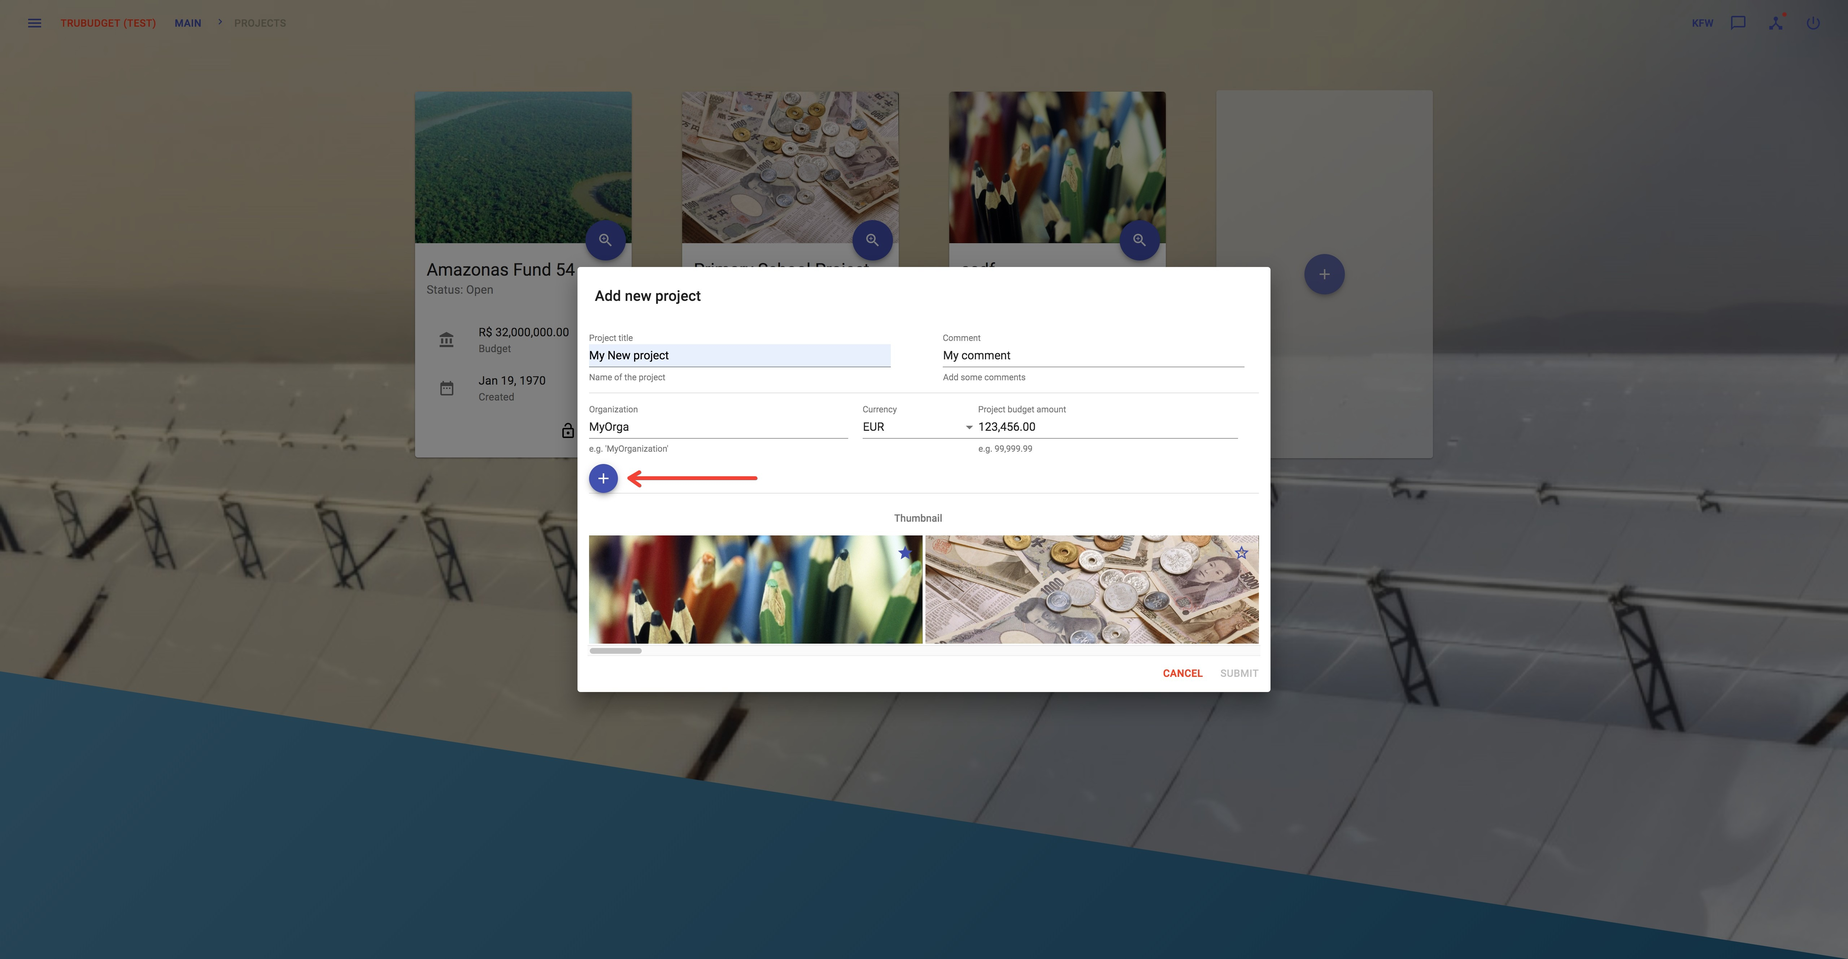
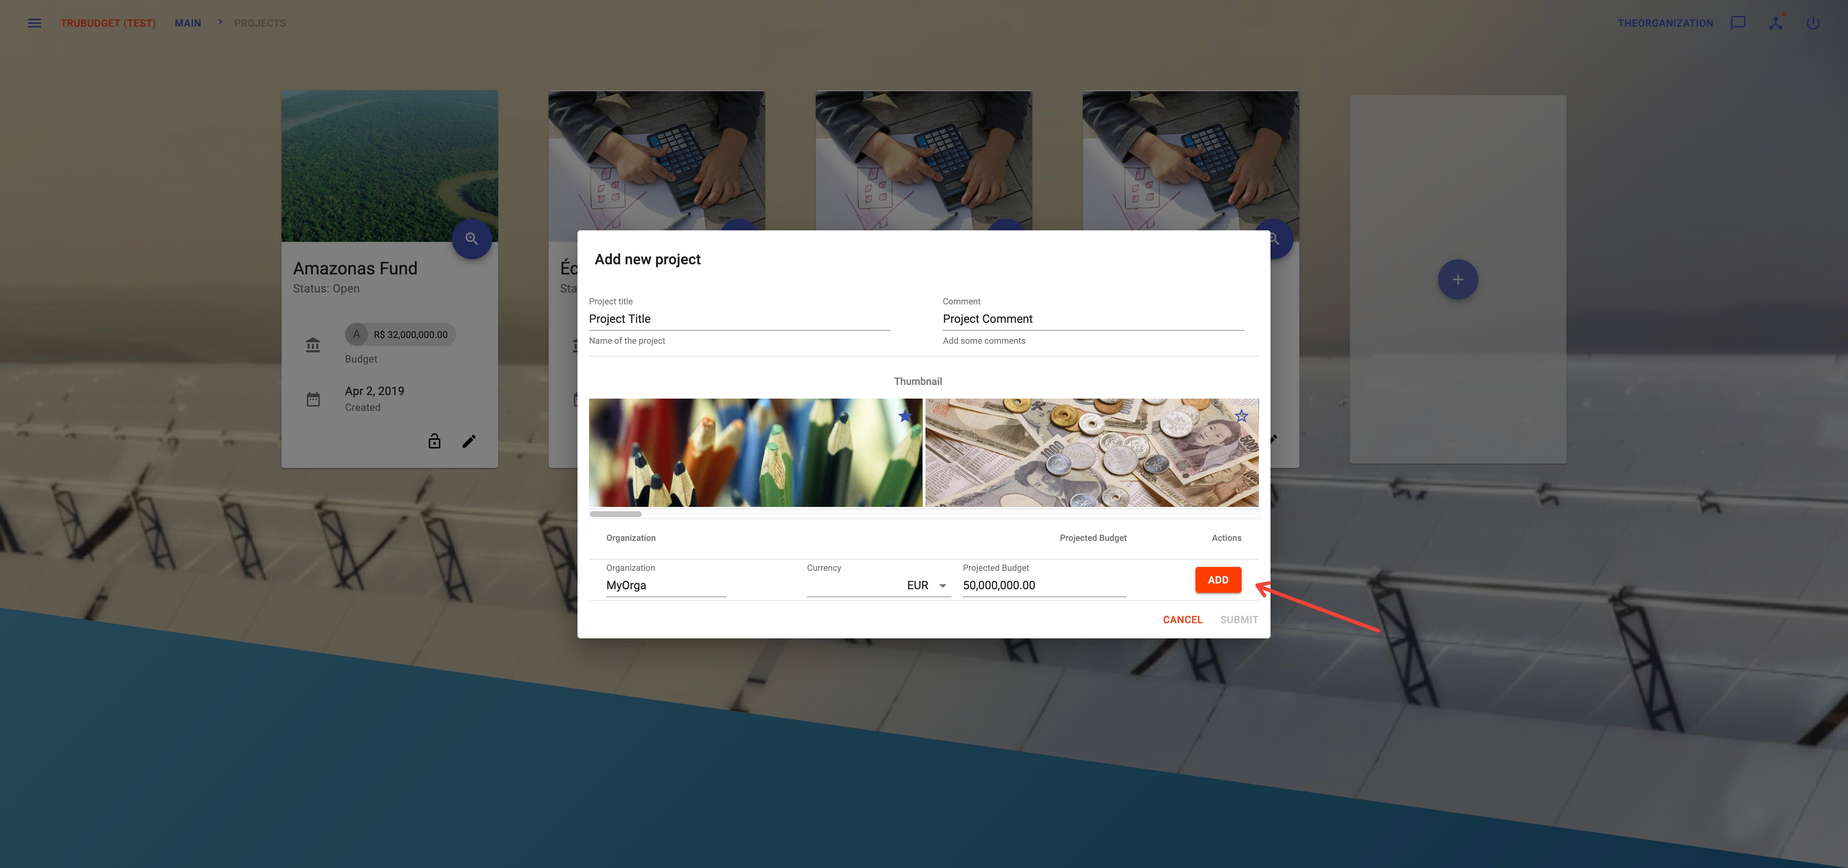
Refine documentation
Squashed commit of the following:

commit f4831b055248689ef3bbe16d7b3a7ef49706e4d9
Author: Kevin Bader <kevinbader@users.noreply.github.com>
Date:   Wed Apr 3 15:53:01 2019 +0200

    Update readme

commit ade52223a8595ef6893f67859bca468a0f45fc4c
Author: Kevin Bader <kevinbader@users.noreply.github.com>
Date:   Wed Apr 3 14:22:44 2019 +0200

    Increase Docker version to support managed volumes

commit 5918232d27f7a514e2d78948dd0d0004ccd59f1b
Author: Kevin Bader <kevinbader@users.noreply.github.com>
Date:   Wed Apr 3 14:19:16 2019 +0200

    Remove coverage badge

commit 7e39d3d2dc974c2ca93a340a35d5069ca6f30b66
Author: Mathias Höld <mathias.hoeld@accenture.com>
Date:   Wed Apr 3 12:03:21 2019 +0200

    Update screenshots for user guide

commit 028d1f4e0f93486d4b37780a620369830c344da6
Merge: 96f255db 96cdbbff
Author: Mathias Höld <mathias.hoeld@accenture.com>
Date:   Wed Apr 3 11:29:06 2019 +0200

    Fix link

commit 96f255db7d1e33076bfb3b7ee3261c4613eee51d
Author: Mathias Höld <mathias.hoeld@accenture.com>
Date:   Wed Apr 3 11:11:36 2019 +0200

    Fix links in user guides

commit 96cdbbff93a2f9607bfbd0536b91f4082442ef7b
Author: Mathias Höld <mathias.hoeld@accenture.com>
Date:   Wed Apr 3 11:11:36 2019 +0200

    Fix links in user guides

commit 53a30144468a1a1b6b62757f4ca4892d32623301
Author: Stezido <stefan.ziffer@accenture.com>
Date:   Wed Apr 3 10:59:25 2019 +0200

    Update 0007-execution-architecture-overview.md

commit e40846601a493d2873bbaf7759da10259c048f07
[…]

diff --git a/README.md b/README.md
@@ -2,14 +2,18 @@
 
 [![build status](https://travis-ci.com/openkfw/TruBudget.svg?branch=master)](https://travis-ci.com/openkfw/TruBudget)
 [![gitter chat](https://img.shields.io/badge/chat-on%20gitter-brightgreen.svg)](https://gitter.im/Tru-Community/community)
-[![Coverage Status](https://coveralls.io/repos/github/openkfw/TruBudget/badge.svg)](https://coveralls.io/github/openkfw/TruBudget)
 
 # Table of Contents <!-- omit in TOC -->
 
 - [Introduction](#introduction)
 - [Getting Started](#getting-started)
   - [Prerequisites](#prerequisites)
-  - [Installing](#installing)
+  - [Starting the first TruBudget node](#starting-the-first-trubudget-node)
+  - [Working with TruBudget](#working-with-trubudget)
+  - [Adding new nodes to the network](#adding-new-nodes-to-the-network)
+  - [Granting access for new nodes](#granting-access-for-new-nodes)
+  - [Using TruBudget programatically through its API](#using-trubudget-programatically-through-its-api)
+  - [Hints and Pitfalls](#hints-and-pitfalls)
 - [Build and Develop from Local Sources](#build-and-develop-from-local-sources)
 - [More Information](#more-information)
 
@@ -19,76 +23,154 @@ TruBudget - a trusted public expenditure tool. A collaborative workflow tool and
 
 # Getting Started
 
-These instructions will get you a copy of the project up and running on your local machine.
+These instructions will help you deploy your own TruBudget platform having two nodes of separate organizations connected to the same network.
 
->_Caution_: This guide is tested against Linux and OS X operating systems. For Windows, we recommend using the Git Bash (or something similar) to perform the commands listed below, but there could still be issues while performing some of the commands.
+> _Caution_: This guide is tested against Linux and OS X operating systems. For Windows, we recommend using the Git Bash (or something similar) to perform the commands listed below, but there could still be issues while performing some of the commands.
 
 ## Prerequisites
 
-- [Docker](https://www.docker.com/) (Version 17.03.0+)
+- [Docker](https://www.docker.com/) (version 17.06 or higher recommended)
 - [Docker-Compose](https://docs.docker.com/compose/)
 
-## Installing
+> In order to run the full tutorial you should run the TruBudget nodes in separate VM's
+
+## Starting the first TruBudget node
 
 The recommended option to get started with TruBudget is to use the latest stable docker images via docker-compose.
 For more detailed information about the installation and the environment variables or alternative ways to setup TruBudget check out the [Installation Guide](./doc/wiki/Installation-Guide/Installation-Guide.md).
 
-Setting required environment variables via `.env` file. If you want to use the standard setup, simply copy the `.env_example` file:
+The required environment variables are set in the `.env` file. If you want to use the standard setup, simply copy the `.env_example` file, otherwise explore the posible configuration options in it:
 
 ```bash
 cd path/to/trubudget
 cp .env_example .env
 ```
 
->Tip: If you want to checkout a certain version of TruBudget change the `TAG` environment variable. By default it is set to `TAG=master`.
+> Warning: Before you start with the standard configuration, please make sure that the ports `80`, `8080`, `8081`, `7447`, `7448` are not occupied by other processes. If yes, you can change the ports used in TruBudget inside the `.env` file.
 
-Before you start with the standard configuration, please make sure that the port `80` (used by the frontend) is free.
+To run a clean (empty) version of TruBudget, run the following script:
 
-To run TruBudget, run the following script:
-
-```bash
-sh scripts/master/start-and-provision-master-node.sh
-```
-
-This will start a prod and test instance of TruBudget (blockchain, api, frontend) with a standard set of projects and users (i.e. 'provisioned blockchain').
-> Caution: The process of provisioning may take several minutes (depending on your CPU) and can slow down your computer during the execution of the script.
-
-If you want to start with an empty blockchain (i.e. without any users but `root` and without any projects), you can run:
 ```bash
 sh scripts/master/start-master-node.sh
 ```
 
-Use `docker ps` to check on the running containers:
+> In case you want to start with a set of example data, you can also start TruBudget with the following script `sh scripts/master/start-and-provision-master-node.sh`. The process of provisioning may take several minutes (depending on your CPU) and can slow down your computer during the execution of the script. After provisioning you have acces to a set of users (e.g. `mstein` which share the password `test`)
+
+This command will bootstrap a prod and test instance of TruBudget (blockchain, api, frontend) for you. Use `docker ps` to check on the running containers. You should see the following output (you can find more details about the runtime architecture in the [Infrastructure-Guide](./doc/wiki/Infrastructure-Guide/Infrastructure-Guide.md)):
 
 ```bash
 ➜ docker ps
-CONTAINER ID        IMAGE                           COMMAND                  CREATED             STATUS              PORTS                NAMES
-41c3453e505c        trubudget/frontend:master       "/bin/sh -c '/bin/as…"   5 minutes ago       Up 5 minutes        0.0.0.0:80->80/tcp   trubudget_frontend_1
-5dacb07a93a3        trubudget/provisioning:master   "npm start"              5 minutes ago       Up 5 minutes                             trubudget_provision-test_1
-296e0d16435c        trubudget/provisioning:master   "npm start"              5 minutes ago       Up 5 minutes                             trubudget_provision-prod_1
-c6426a0ee5f5        trubudget/api:master            "/bin/sh -c 'npm sta…"   5 minutes ago       Up 5 minutes                             trubudget_testapi_1
-27d71e0678d0        trubudget/api:master            "/bin/sh -c 'npm sta…"   5 minutes ago       Up 5 minutes                             trubudget_api_1
-760e9736c0dc        trubudget/blockchain:master     "npm start"              5 minutes ago       Up 5 minutes        7447/tcp, 8000/tcp   trubudget_master_1
-a8b3442490b5        trubudget/blockchain:master     "npm start"              5 minutes ago       Up 5 minutes        7447/tcp, 8000/tcp   trubudget_testmaster_1
+CONTAINER ID        IMAGE                  COMMAND                  CREATED             STATUS              PORTS                              NAMES
+6e70c64c84c9        trubudget_frontend     "/bin/sh -c '/bin/as…"   30 minutes ago      Up 30 minutes       0.0.0.0:80->80/tcp                 trubudget_frontend_1
+b6e096c65ba8        trubudget_testapi      "/bin/sh -c 'npm sta…"   30 minutes ago      Up 30 minutes       0.0.0.0:8081->8080/tcp             trubudget_testapi_1
+8d70d9f311a9        trubudget_api          "/bin/sh -c 'npm sta…"   30 minutes ago      Up 30 minutes       0.0.0.0:8080->8080/tcp             trubudget_api_1
+49254c50b649        trubudget_master       "npm start"              30 minutes ago      Up 30 minutes       0.0.0.0:7447->7447/tcp, 8000/tcp   trubudget_master_1
+0b458b72d14f        trubudget_testmaster   "npm start"              30 minutes ago      Up 30 minutes       8000/tcp, 0.0.0.0:7448->7447/tcp   trubudget_testmaster_1
 ```
 
 Once the application is started (and the provisioning is done), you can visit the application at:
+
 ```
 http://localhost:80
 ```
 
-To log in, use the following standard login (as defined in the `.env` file)
+If you bootstraped an empty TruBudget instance, you need to provision some users first. In this case you have to log-in with the _root_, whose password is defined in the `.env` file with the environment variable `ROOT_SECRET`. The default value from the `.env_example` is: 
+
 ```
 User: root
 Passwort: root-secret
 ```
-With this user you can see the provisioned projects and users, if you started with a provisioned blockchain.
 
-The blockchain data is persisted on your hard drive. The standard location on Linux and OS X for this is:
+> If the environment variable for ROOT_SECRET is not set, it is auto-generated by the API as a random string. The value is then printed to the API log.
+
+The next step is to setup your first user.
+
+## Working with TruBudget
+
+Your first step is creating a new user. Follow the instruction on [User-Guide: Setup a User](./doc/wiki/User-Guide/Users-Groups/User.md). Don't forget to grant permissions to your users.
+
+Now you can create you first project, subproject and workflow items following the [User-Guide: Ressources](./doc/wiki/User-Guide#projects).
+
+TruBudget is a distributed platform built on Blockchain, so let's add a new node to our network!
+
+## Adding new nodes to the network
+
+Let's define _organization_ first. An organization is a stakeholder in the funding process (e.g. Minsistry of X). TruBudget is designed to connect multiple organizations together. Each organization creates their own users. From a network perspective, an organization can run one or more nodes. Each organization has exactly one wallet that can be used to vote when granting or revoking permissions to wallet addresses, which is key to preventing a 51%-attack against the network. A consequence of this mechanism is that a user may only sign-in on nodes that belong to his/her organization (find more on this at [Network: Nodes](./doc/wiki/User-Guide/Network/Nodes.md)). If you want to read more about the concept of organizations, have a look at the [Multi Node Setup ADR](./doc/adr/0010-multi-node-setup.md).
+
+Start up a new VM, again check out the project and copy the `.env` file, as you did in the first step. Let's take a deeper look at it:
+
+| Variable                  | Description                                                 |
+| ------------------------- | ----------------------------------------------------------- |
+| ORGANIZATION              | The name of your organization                               |
+| ORGANIZATION_VAULT_SECRET | The secret for your organization                            |
+| P2P\_<TEST / PROD>\_HOST  | The address of the remote node you want to connect to       |
+| P2P\_<TEST / PROD>\_PORT  | The port of the remote node you want to connect to          |
+| API\_<TEST / PROD>\_HOST  | The address of the remote master api you want to connect to |
+| API\_<TEST / PROD>\_PORT  | The port of the remote master api you want to connect to    |
+
+You can only connect to an existing organization if you know its `ORGANIZATION_VAULT_SECRET`. If you create a new organization, simply set the `ORGANIZATION` to the name of your new organization and set a `ORGANIZATION_VAULT_SECRET` which is kept secret inside your organization
+
+Well, let's create a new organization (`CoolNewOrga`) which wants to connect to our node (the one we created in the first step):
+
 ```
-/tmp/bcMasterVolume
+...
+ORGANIZATION=CoolNewOrga
+ORGANIZATION_VAULT_SECRET=moresecretthananythingelse
+...
+P2P_TEST_HOST=51.51.51.51
+P2P_TEST_PORT=7448
+API_TEST_HOST=51.51.51.51
+API_TEST_PORT=8081
+P2P_PROD_HOST=51.51.51.51
+P2P_PROD_PORT=7447
+API_PROD_HOST=51.51.51.51
+API_PROD_PORT=8080
+...
 ```
 
+As you can see, we have set the `ORGANIZATION` and `ORGANIZATION_VAULT_SECRET` variables and additionaly set the IP-Address of the node we created in the first step (e.g. in our case `51.51.51.51`)
+
+Now start
+
+```bash
+sh scripts/master/start-slave-node.sh
+```
+
+and you will connect yourself to the network and ask for access permissions. If you look at the console output of the new node, you will see an error. This error comes from the node, trying to access the network but being rejected.
+
+To proceed from here let's jump to the next step and grant the newly created node permission to access the network.
+
+## Granting access for new nodes
+
+TruBudget creates a private network. This means new nodes have to ask already registered nodes for permissions to join. When granting access we are using a democratic aproach to do so, by requiring at least half of the current network to approve a new node. In our case, we only have one node (the one you created in the first step), which has currently 100% of the voting power.
+
+To grant permissions, simply log in on the first TruBudget node (the one you created in the first step) and follow the instructions in the [Node-Guide](./doc/wiki/User-Guide/Network/Nodes.md).
+
+In the node section you should see that you need to approve a new node and organization. Approve it the requesting node (the one from the third step) will start to automatically connect and synchronize with the network (check the logs of the node created in the third step).
+
+> Warning: Keep in mind, we are always deploying two separate networks (`prod` and `test`). This means you need to approve the new node in each network separately. You can switch the network through a dropdown on the login screen.
+
+## Using TruBudget programatically through its API
+
+TruBudget comes with a frontend, but we greatly encourage to create own frontends or attach your existing systems to TruBudget. Therefore everything you can do in TruBudget can be done through a well documented HTTP/JSON interface. You can access and test-drive the API using the swagger documentation which is exposed by the TruBudget API under the route `/api/documentation/index.html`. Since we have already two nodes running, lets access the API documentation of the node we deployed in the first step.
+
+```
+For the prod network:
+http://localhost:8080/api/documentation/index.html
+
+For the test network:
+http://localhost:8081/api/documentation/index.html
+```
+
+## Hints and Pitfalls
+
+Obviously this is just a short introduction on how to start and use the platform but you can get quite far with it. Nevertheless, there are a few points which you need to consider if you want to go into more details or use TruBudget in production.
+
+- Secrets: You will be using different secrets and it is essential to keep this in a secure place. The `ORGANIZATION_VAULT_SECRET` restricts who can join an organization and make transaction on their behalf. The `ROOT_SECRET` grants access for a super admin (the _root_ user) on the API and should only be used to create the first admin user. The `RPC_SECRET` restricts access to the Multichain API and should be different for every node.
+- You can't delete: You are on a blockchain! All your actions and changes will be visible (this is why we use a blockchain ;)). Therefore we always provide a test-network to play around (you can select the network on the login screen). If you are in a country which falls under GDPR or other personal data protection laws you should never store personal data in TrudBudget.
+- Privacy: _Data at rest_ and _Data in transit_ is _not_ encrypted. If this is important for you, your infrastructure has to provide adequate measures to ensure this level of privacy (e.g. disk encryption, VPN). Obviously passwords are encrypted and _not_ stored in clear text.
+- Access-Control: Be aware that since we are in blockchain, data will be replicated across all nodes and is potentially readable by all nodes (_except_ passwords). A much higher level of access control is enforced through the TruBudget API which will restrict the amount of data a user can see or update. If you want to grant access to a party you are not fully trusting, _never_ grant them direct access to the Multichain node (through RPC) instead expose the TruBudget API and created a user with the individual permissions for them.
+- Persistence: By default, the blockchain will store its local date inside the /tmp folder of your host system. Depending on your OS configuration this could be a volatile space (e.g. could be deleted on boot up). You should change this path the location of your choice. To do so, simply edit the docker-compose files inside the `./docker-compose` [folder](./docker-compose). _we plan to change the default location in future updates_
 
 # Build and Develop from Local Sources
 

diff --git a/doc/wiki/User-Guide/Projects/Subproject.md b/doc/wiki/User-Guide/Projects/Subproject.md
@@ -28,7 +28,7 @@ View all subprojects where the current user has view-permissions on.
 
 **Notes:**
 
-- To view the subproject's details take a look at the [View subproject details section](<./#View subproject details>) below.
+- To view the subproject's details take a look at the [View subproject details section](#view-subproject-details) below.
 
 **Instructions:**
 
@@ -86,9 +86,8 @@ Create a new subproject defining title, comment, currency and budget.
    - "Comment": A little description or comment refering to the subproject
    - "Organization": Organization that the budget belongs to
    - "Currency": The currency of the organization's budget
-   - "Amount": The amount of the organization's budget
 
-6. Add the budget of the organization by clicking the "+" symbol
+6. Add the projected budget of the organization by clicking the "+" symbol
    ![create a  project](../../uploads/Screenshots/add_subproject_2.jpeg)
    After this, the entered budget will appear on the screen
    ![create a  project](../../uploads/Screenshots/add_subproject_3.jpeg)
@@ -118,7 +117,6 @@ Update details like budget amount or title of a subproject.
    - "Subproject Title": Title of the subproject
    - "Comment": A little description or comment refering to the subproject
    - "Currency": Currency of the subproject
-   - "Subproject budget amount": Assigned budget to the subproject
 
 6. Click the "Submit"-button to update the subproject.
 
@@ -192,11 +190,12 @@ The additional data is a free field that can be used to extend the subproject da
 
 **Instructions:**
 
-1. Click the "i" button on the right side of the subproject
+1. Click the "..." button on the right side of the subproject
 2. A window appears containing the additional information on the subproject
 3. Close the window by clicking "close"
 
-![show subproject history](../../uploads/Screenshots/subproject_info.jpeg)
+![show subproject additional data](../../uploads/Screenshots/subproject_info.jpeg)
+![show subproject additional data screen](../../uploads/Screenshots/subproject_info_2.jpeg)
 
 ## [Permissions on subproject](../Permissions.md)
 

diff --git a/doc/wiki/User-Guide/Users-Groups/User.md b/doc/wiki/User-Guide/Users-Groups/User.md
@@ -1,6 +1,6 @@
 # User
 
-With **Users** an organization can grant an entity access to the Trubudget-application. New users only have access to the Trubudget-application without permissions to see any project. All permissions (e.g. view a project, view a subproject,...) have to be granted separately by the administrator. More details about the permission model can be found in the [Permissions section](<User guide/Users-Groups/Permissions>)
+With **Users** an organization can grant an entity access to the Trubudget-application. New users only have access to the Trubudget-application without permissions to see any project. All permissions (e.g. view a project, view a subproject,...) have to be granted separately by the administrator. More details about the permission model can be found in the [Permissions section](../Permissions.md)
 
 Users and Groups can be viewed and created in the "Users" section which can be found in the sidebar navigation.
 
@@ -48,5 +48,4 @@ Create a new User.
 
 5. Click the "Submit"-button to create and save the new user.
 
-
-Once a user is created you can grant and revoke administrator permissions for the user, more details can be found at [admin-permissions](./doc/wiki/User-Guide/Permissions.md#admin-permissions). 
+Once a user is created you can grant and revoke administrator permissions for the user, more details can be found at [admin-permissions](../Permissions.md#admin-permissions).

diff --git a/doc/wiki/User-Guide/Users-Groups/Group.md b/doc/wiki/User-Guide/Users-Groups/Group.md
@@ -66,7 +66,7 @@ Create a new group.
    - "Name": Name of group
 6. Type the user's ID into the field at the bottom of the dialog. After one or more characters are entered, a dropdown menu with suggested users will appear. Click the user in the dropdown to instantly add the user to the group. Note that the dropdown lists max. 6 user-suggestions - if the user you want to add is not visible in the dropdown, please enter more characters to search for the user. To remove any of the users that were already added, click the "X" next to the user's ID.
 
-Once a group is created you can grant and revoke administrator permissions for the group, more details can be found at [admin-permissions](./doc/wiki/User-Guide/Permissions.md#admin-permissions). 
+Once a group is created you can grant and revoke administrator permissions for the group, more details can be found at [admin-permissions](../Permissions.md#admin-permissions).
 
 ## Edit a Group
 

diff --git a/doc/wiki/User-Guide/Projects/Project.md b/doc/wiki/User-Guide/Projects/Project.md
@@ -26,7 +26,7 @@ View all projects where the current user has view-permissions on.
 **Notes:**
 
 - An alternative way to view the projects site is to click on the Main Button in the upper left corner.
-- To view the project's details take a look at the [View project details section](<./#View project details>) below.
+- To view the project's details take a look at the [View project details section](#view-project-details) below.
 
 **Instructions:**
 
@@ -161,7 +161,7 @@ Close a project when all subprojects are closed.
 
 **Description:**
 
-The history contains all activities done directly refer to the current project and it's subprojects.
+The history contains all activities done directly refer to the current project and its subprojects.
 
 **Notes:**
 

diff --git a/doc/wiki/User-Guide/Projects/Workflowitem.md b/doc/wiki/User-Guide/Projects/Workflowitem.md
@@ -220,7 +220,7 @@ Close a workflowitem when the work is done.
 
 **Description:**
 
-The [history of subprojects](<../Projects/Subproject#View the history of a subproject>) contains all activities refering to all it's workflowitems.
+The [history of subprojects](../Projects/Subproject#view-the-history-of-a-subproject) contains all activities refering to all it's workflowitems.
 
 ## Reorder Workflowitems
 

diff --git a/doc/adr/0007-execution-architecture-overview.md b/doc/adr/0007-execution-architecture-overview.md
@@ -1,4 +1,4 @@
-# 2. Basic architecture overview
+# 7. Basic architecture overview
 
 Date: 14/08/2018
 

diff --git a/doc/adr/0009-migration-model.md b/doc/adr/0009-migration-model.md
@@ -1,4 +1,4 @@
-# 8. Migration Model
+# 9. Migration Model
 
 Date: 28/11/2018
 
